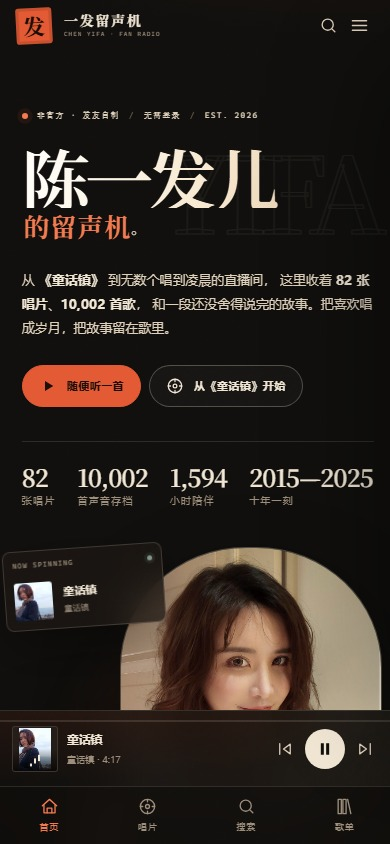
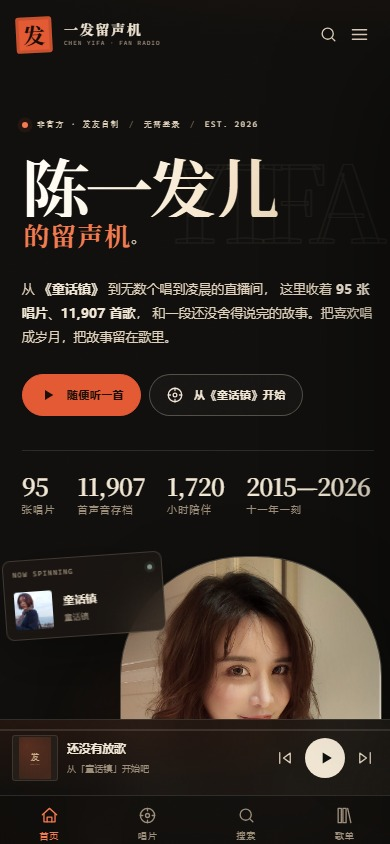
fix: 合并繁体艺人档案，补齐 2024–2026 直播歌曲集

diff --git a/functions/api/[[catchall]].js b/functions/api/[[catchall]].js
@@ -206,7 +206,16 @@ function normalizeArtist(artist) {
 /* Home                                                               */
 /* ------------------------------------------------------------------ */
 
+const ARTIST_IDS = [
+  "7yfP0IcpGCyV4x9UXURctf", // 陈一发儿（简体归档）
+  "1Hzv657YXvoAWycVswzpW3", // 陳一發兒（繁体直播归档，含 2024–2026）
+];
+const ARTIST_NAMES = ["陈一发儿", "陳一發兒"];
+
 const FEATURED_NAMES = [
+  "2026直播歌曲集",
+  "2025直播歌曲集",
+  "2024直播歌曲集",
   "童话镇",
   "阿婆说",
   "弦上有春秋",
@@ -220,6 +229,35 @@ const FEATURED_NAMES = [
 const MEMORY_CACHE = new Map();
 const MEMORY_CACHE_TTL = 10 * 60 * 1000;
 
+async function fetchMergedArtist(env) {
+  const bodies = await Promise.all(
+    ARTIST_IDS.map((id) => nd(env, "getArtist", { id }).catch(() => null))
+  );
+  const rawArtists = bodies.map((body) => body?.artist).filter(Boolean);
+  if (!rawArtists.length) throw new Error("找不到陈一发儿的音乐档案");
+
+  const primary = normalizeArtist(rawArtists[0]);
+  const albumMap = new Map();
+  rawArtists.forEach((artist) => {
+    ensureArray(artist.album).forEach((album) => {
+      if (album?.id && !albumMap.has(album.id)) albumMap.set(album.id, album);
+    });
+  });
+
+  const albums = [...albumMap.values()].map(normalizeAlbum).filter(Boolean);
+  const songCount = albums.reduce((sum, album) => sum + album.songCount, 0);
+  const duration = albums.reduce((sum, album) => sum + album.duration, 0);
+
+  return {
+    ...primary,
+    albumCount: albums.length,
+    songCount,
+    duration,
+    hours: Math.round(duration / 360) / 10,
+    albums,
+  };
+}
+
 async function handleHome(request, env) {
   const cfg = getConfig(env);
   if (!cfg.user || !cfg.pass) {
@@ -230,28 +268,21 @@ async function handleHome(request, env) {
     }, 503);
   }
 
-  const cacheKey = new Request(new URL("/api/home?v=4", request.url), { method: "GET" });
+  const cacheKey = new Request(new URL("/api/home?v=5", request.url), { method: "GET" });
   const cached = await cacheMatch(cacheKey);
   if (cached) return cached;
 
-  const artistBody = await nd(env, "getArtist", { id: "7yfP0IcpGCyV4x9UXURctf" });
-  const artist = normalizeArtist(artistBody.artist || {});
-  if (!artist.albums.length) {
-    // 若账号更换，退回到按名字查找
-    const found = await nd(env, "search3", { query: "陈一发儿", artistCount: 1, albumCount: 0, songCount: 0 });
-    const foundArtist = found.searchResult3?.artist?.[0];
-    if (foundArtist) {
-      const alt = await nd(env, "getArtist", { id: foundArtist.id });
-      Object.assign(artist, normalizeArtist(alt.artist || {}));
-    }
-  }
+  const [artist, ...topResults] = await Promise.all([
+    fetchMergedArtist(env),
+    ...ARTIST_NAMES.map((name) => nd(env, "getTopSongs", { artist: name, count: 30 }).catch(() => null)),
+  ]);
+  const topSongs = dedupeSongs(
+    topResults.flatMap((body) => ensureArray(body?.topSongs?.song).map(normalizeSong).filter(Boolean))
+  ).sort((a, b) => b.playCount - a.playCount);
 
-  const topBody = await nd(env, "getTopSongs", { artist: artist.name, count: 30 });
-  const topSongs = ensureArray(topBody.topSongs?.song).map(normalizeSong).filter(Boolean);
-
-  // Keep the home request to two fast Navidrome calls. Signature moments are
-  // already represented in the play-count list; the album shelf links to the full archive.
-  const songs = dedupeSongs(topSongs);
+  // Both simplified and traditional artist archives feed the same shelf, so
+  // 2024–2026 live recordings are not lost behind an artist-name split.
+  const songs = topSongs;
   const featured = chooseFeatured(artist.albums);
   const eras = buildEras(artist.albums);
   const heroSong = songs.find((song) => song.title.includes("童话镇")) || songs[0] || null;
@@ -331,8 +362,7 @@ function dedupeSongs(songs) {
 /* ------------------------------------------------------------------ */
 
 async function handleAlbums(request, env) {
-  const artistBody = await nd(env, "getArtist", { id: "7yfP0IcpGCyV4x9UXURctf" });
-  const artist = normalizeArtist(artistBody.artist || {});
+  const artist = await fetchMergedArtist(env);
   const albums = [...artist.albums].sort((a, b) => b.year - a.year || b.playCount - a.playCount);
 
   return json({

diff --git a/assets/js/views.js b/assets/js/views.js
@@ -146,7 +146,7 @@ export function homeView(data, state) {
           <div class="hero-stat"><dt>${artist.albumCount}</dt><dd>张唱片</dd></div>
           <div class="hero-stat"><dt>${artist.songCount.toLocaleString("zh-CN")}</dt><dd>首声音存档</dd></div>
           <div class="hero-stat"><dt>${Math.round(artist.hours).toLocaleString("zh-CN")}</dt><dd>小时陪伴</dd></div>
-          <div class="hero-stat"><dt>2015—2025</dt><dd>十年一刻</dd></div>
+          <div class="hero-stat"><dt>2015—2026</dt><dd>十一年一刻</dd></div>
         </dl>
       </div>
 
@@ -254,8 +254,8 @@ export function homeView(data, state) {
       <div class="shell">
         <div class="era-band reveal">
           <div class="era-copy">
-            <span class="kicker">2015 — 2025 · 十年一刻</span>
-            <h2>十年，<br><em>一万首歌。</em></h2>
+            <span class="kicker">2015 — 2026 · 十一年一刻</span>
+            <h2>十一年，<br><em>一万首歌。</em></h2>
             <p>从第一场直播，到茶话会、生日歌会、跨年夜晚。时间把声音留了下来，也把听歌的人留在了这里。</p>
           </div>
           <div class="era-years">
@@ -757,9 +757,9 @@ export function aboutView(data) {
               <p>本站由发友自制，非官方，不收费，不投放广告，不收集个人信息。音乐版权归陈一发儿及原权利人所有，请支持正版。</p>
             </div>
             <div class="about-facts">
-              <div class="about-fact"><b>${data?.stats?.albums || 82}</b><span>张唱片</span></div>
-              <div class="about-fact"><b>${(data?.stats?.songs || 10002).toLocaleString("zh-CN")}</b><span>首声音存档</span></div>
-              <div class="about-fact"><b>${Math.round(data?.stats?.hours || 1593).toLocaleString("zh-CN")}</b><span>小时陪伴</span></div>
+              <div class="about-fact"><b>${data?.stats?.albums || 95}</b><span>张唱片</span></div>
+              <div class="about-fact"><b>${(data?.stats?.songs || 11907).toLocaleString("zh-CN")}</b><span>首声音存档</span></div>
+              <div class="about-fact"><b>${Math.round(data?.stats?.hours || 1720).toLocaleString("zh-CN")}</b><span>小时陪伴</span></div>
               <div class="about-fact"><b>0</b><span>个需要填写的登录框</span></div>
             </div>
           </div>

diff --git a/index.html b/index.html
@@ -4,11 +4,11 @@
   <meta charset="UTF-8">
   <meta name="viewport" content="width=device-width, initial-scale=1, viewport-fit=cover">
   <meta name="theme-color" content="#12100e">
-  <meta name="description" content="陈一发儿 · 发友留声机：为发友定制的匿名音乐馆。收录童话镇、阿婆说与十年直播歌声，支持在线播放、一键下载、歌单备份与分享同步。">
+  <meta name="description" content="陈一发儿 · 发友留声机：为发友定制的匿名音乐馆。收录童话镇、阿婆说与十余年直播歌声，支持在线播放、一键下载、歌单备份与分享同步。">
   <meta name="color-scheme" content="dark">
   <meta property="og:type" content="website">
   <meta property="og:title" content="陈一发儿 · 发友留声机">
-  <meta property="og:description" content="把喜欢唱成岁月。发友专属的匿名音乐馆，收录 10,000+ 首歌与十年直播记忆。">
+  <meta property="og:description" content="把喜欢唱成岁月。发友专属的匿名音乐馆，收录 10,000+ 首歌与十余年直播记忆。">
   <meta property="og:image" content="/assets/img/og-cover.jpg">
   <meta name="twitter:card" content="summary_large_image">
   <title>陈一发儿 · 发友留声机</title>

diff --git a/assets/js/app.js b/assets/js/app.js
@@ -106,7 +106,7 @@ async function renderRoute({ preserveScroll = false, replace = false } = {}) {
       afterRender({ home: true });
       setPageTitle("陈一发儿 · 发友留声机");
       setMeta("og:title", "陈一发儿 · 发友留声机");
-      setMeta("og:description", "把喜欢唱成岁月。发友专属的匿名音乐馆，收录 10,000+ 首歌与十年直播记忆。");
+      setMeta("og:description", "把喜欢唱成岁月。发友专属的匿名音乐馆，收录 10,000+ 首歌与十余年直播记忆。");
       return;
     }
 
@@ -191,7 +191,7 @@ async function renderRoute({ preserveScroll = false, replace = false } = {}) {
     }
 
     if (route.name === "about") {
-      let stats = app.home?.stats || { albums: 82, songs: 10002, hours: 1594 };
+      let stats = app.home?.stats || { albums: 95, songs: 11907, hours: 1720 };
       view.innerHTML = aboutView({ stats });
       afterRender();
       setPageTitle("关于本站 · 陈一发儿留声机");

diff --git a/sw.js b/sw.js
@@ -1,6 +1,6 @@
 /* Offline shell only. Music and API responses always go to the network. */
 
-const VERSION = "cyf-radio-v1.0.0";
+const VERSION = "cyf-radio-v1.1.0";
 const SHELL = [
   "/",
   "/index.html",
@@ -23,7 +23,12 @@ const SHELL = [
 
 self.addEventListener("install", (event) => {
   event.waitUntil(
-    caches.open(VERSION).then((cache) => Promise.allSettled(SHELL.map((path) => cache.add(path)))).then(() => self.skipWaiting())
+    caches.open(VERSION).then((cache) => Promise.allSettled(SHELL.map(async (path) => {
+      // Bypass the HTTP cache when refreshing the shell, otherwise a stale
+      // 7-day-cached module can survive a deployment.
+      const response = await fetch(path, { cache: "reload" });
+      if (response.ok) await cache.put(path, response);
+    }))).then(() => self.skipWaiting())
   );
 });
 

diff --git a/README.md b/README.md
@@ -23,6 +23,15 @@
 - **发友广场**：最近分享的歌单会出现在广场，形成轻量的同好互动。
 - **Cloudflare 免费部署**：静态页面 + Pages Functions，凭据只放服务端；KV 只存分享歌单。
 
+## 关于 2024–2026 的直播歌曲集
+
+Navidrome 里陈一发儿的曲库被拆成了两个 artist 条目：
+
+- `陈一发儿`（简体，82 张唱片）
+- `陳一發兒`（繁体，13 张唱片，包含 `2024直播歌曲集`、`2025直播歌曲集`、`2026直播歌曲集`）
+
+早期版本只读取了简体条目，所以首页和年份筛选里看不到 2024–2026。现在 `/api/home` 和 `/api/albums` 会**合并两个 artist 条目并按 album id 去重**，所以年份会一直排到 2026；合计 95 张唱片、11,907 首歌。搜索本来就走全库，不受影响。
+
 ## 技术结构
 
 ```text
